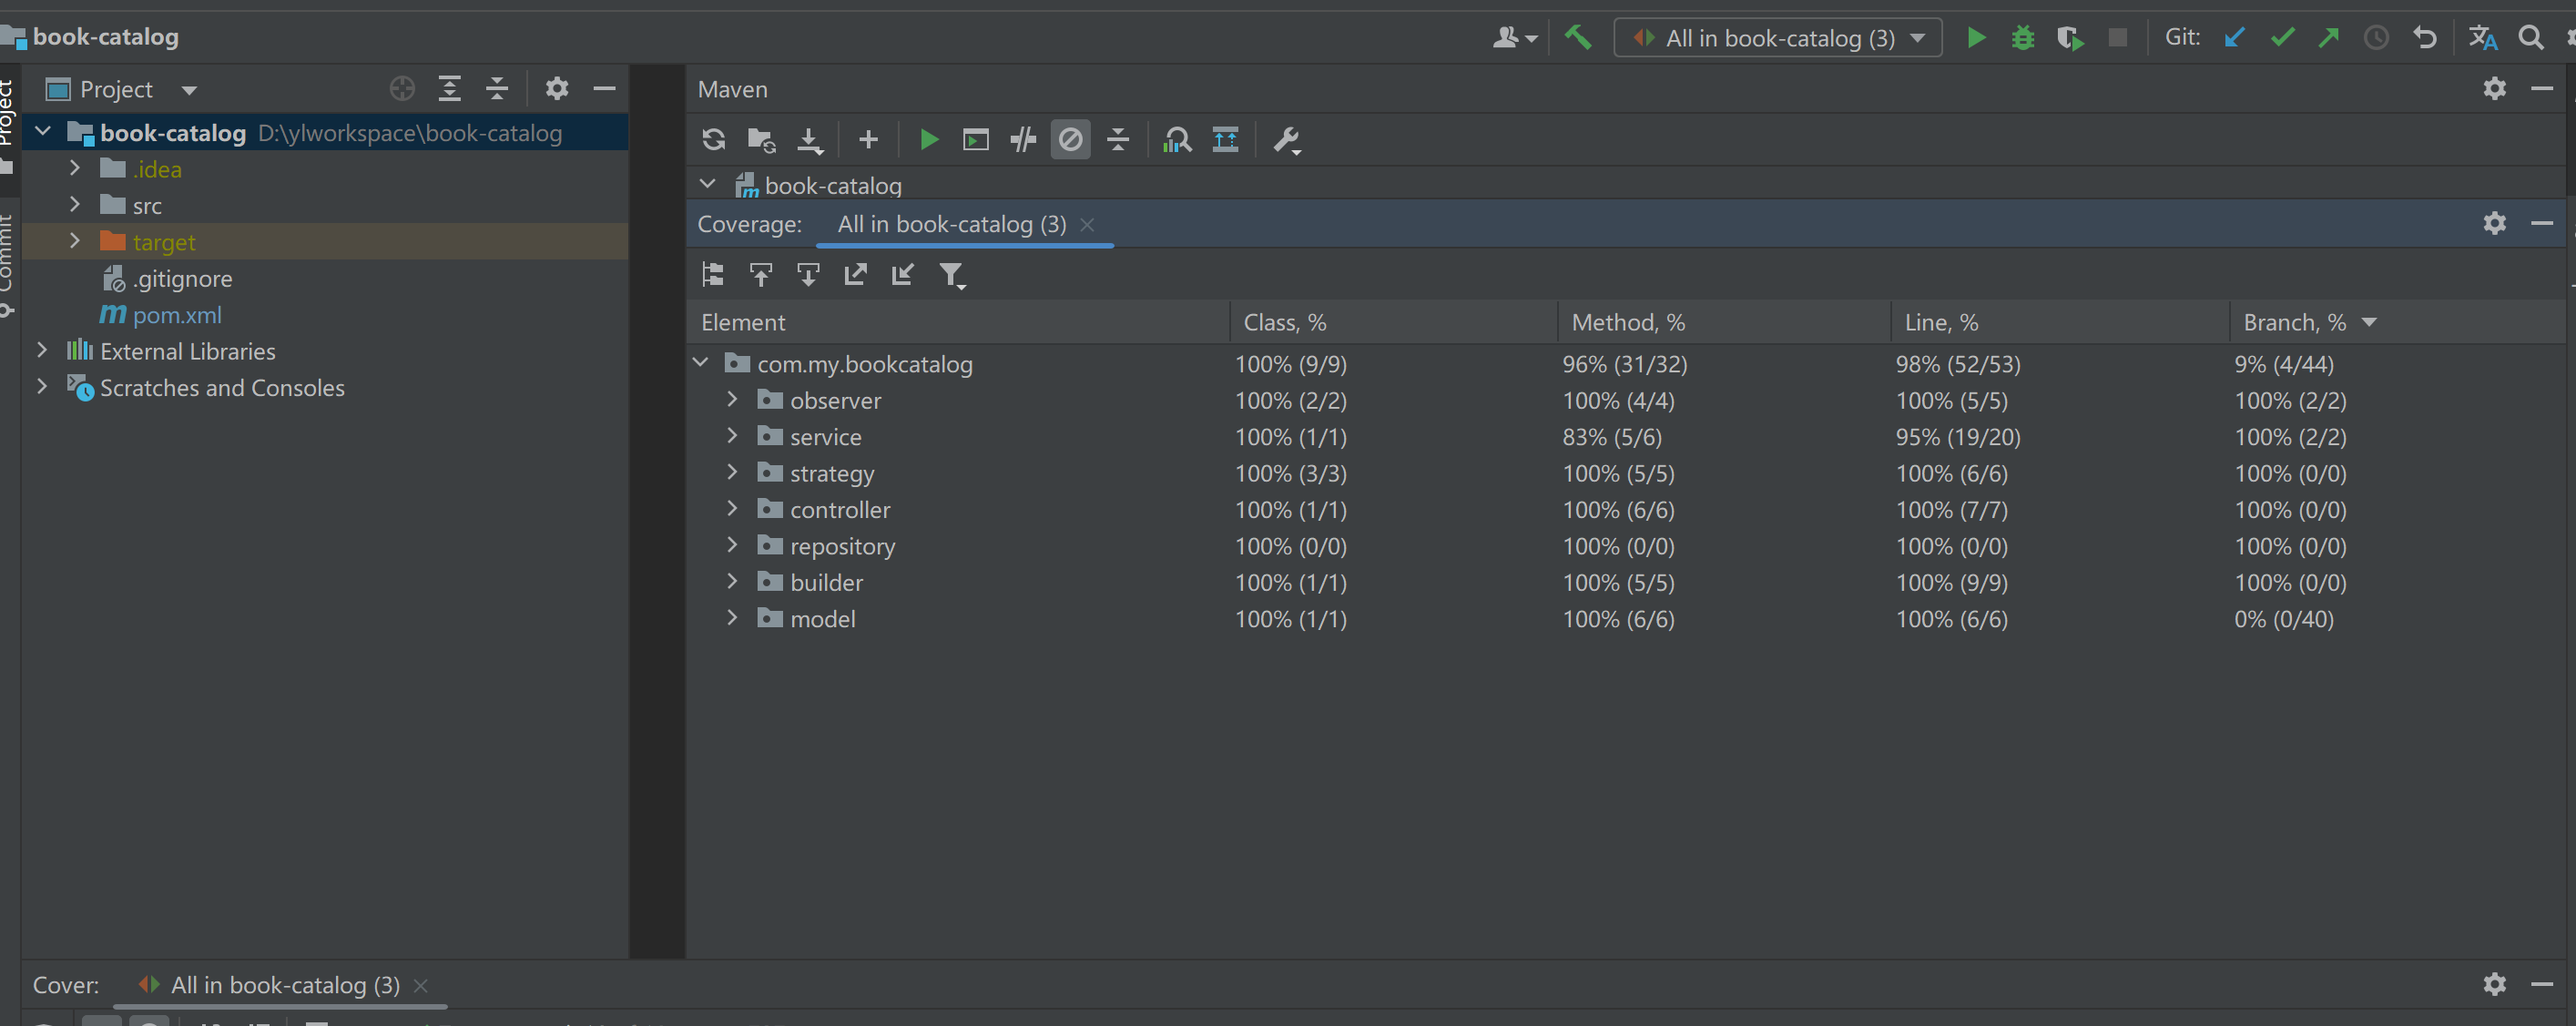
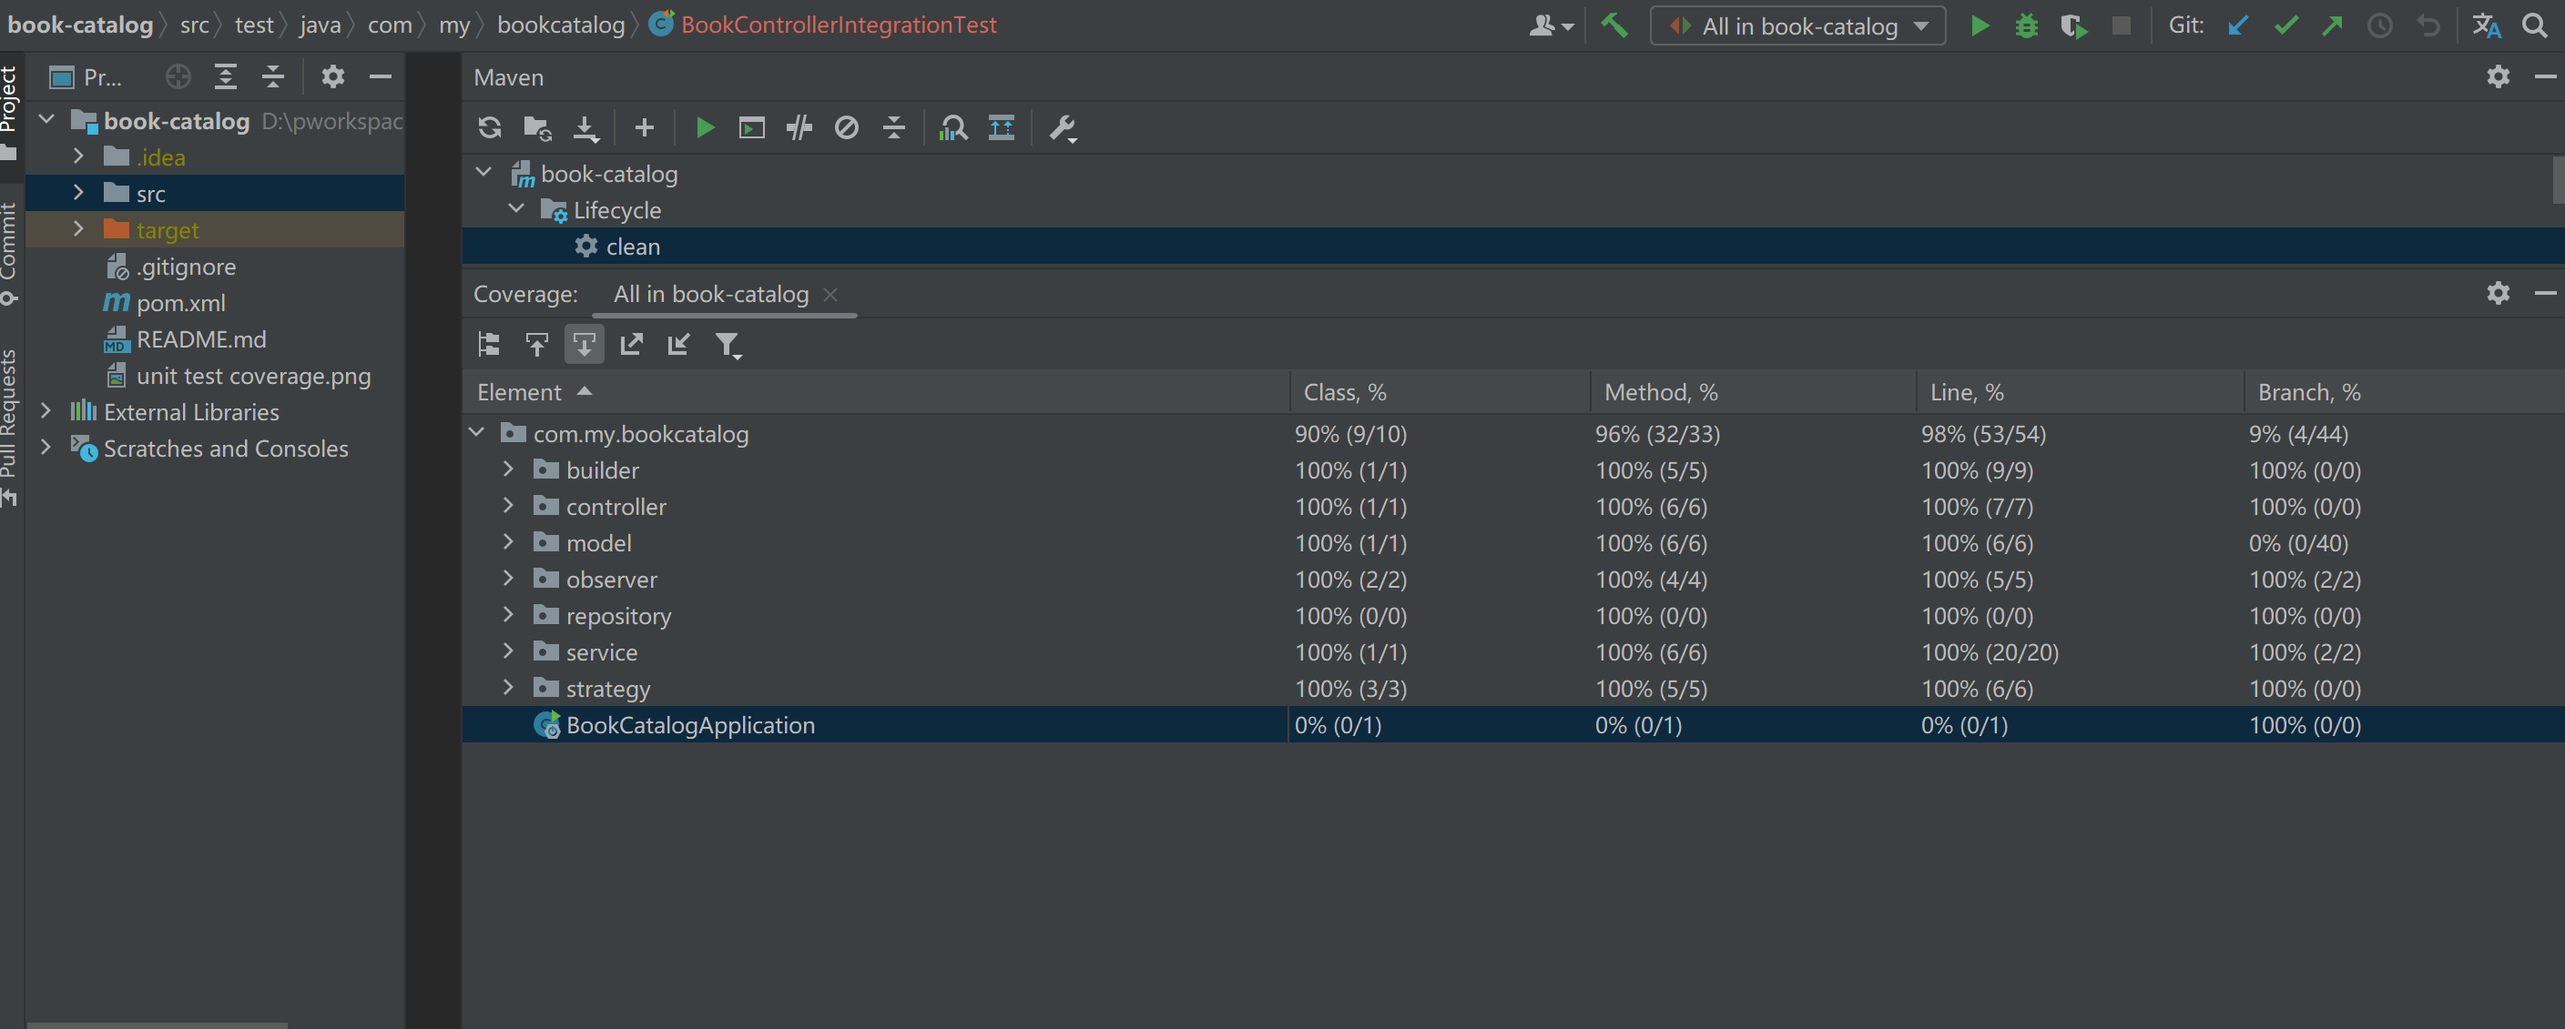
add 集成测试

Changed region(s): [[0.0, 0.0, 1.0, 1.0], [0.5623, 0.0, 0.8747, 0.0621], [0.9059, 0.0, 1.0, 0.0932]]

diff --git a/src/test/java/com/my/bookcatalog/BookControllerIntegrationTest.java b/src/test/java/com/my/bookcatalog/BookControllerIntegrationTest.java
@@ -1,0 +1,85 @@
+package com.my.bookcatalog;
+
+import com.my.bookcatalog.model.Book;
+import org.junit.jupiter.api.Test;
+import org.springframework.beans.factory.annotation.Autowired;
+import org.springframework.boot.test.context.SpringBootTest;
+import org.springframework.boot.test.web.client.TestRestTemplate;
+import org.springframework.http.*;
+
+import static org.junit.jupiter.api.Assertions.assertEquals;
+
+/**
+ * 集成测试
+ */
+@SpringBootTest(webEnvironment = SpringBootTest.WebEnvironment.RANDOM_PORT)
+public class BookControllerIntegrationTest {
+    @Autowired
+    private TestRestTemplate restTemplate;
+
+    @Test
+    void testGetBooks() {
+        ResponseEntity<Book[]> response = restTemplate.getForEntity("/api/books", Book[].class);
+        assertEquals(HttpStatus.OK, response.getStatusCode());
+    }
+
+    @Test
+    void testGetBook() {
+        Book book = createBook();
+        ResponseEntity<Book> response = restTemplate.getForEntity("/api/books/{id}", Book.class,book.getId());
+        assertEquals(HttpStatus.OK, response.getStatusCode());
+    }
+
+    private Book createBook() {
+        Book newBook = new Book();
+        newBook.setTitle("testTitle");
+        newBook.setAuthor("xxxAuther");
+        newBook.setGenre("文学类");
+        newBook.setYearPublished(2025);
+
+        ResponseEntity<Book> response = restTemplate.postForEntity(
+                "/api/books",
+                newBook,
+                Book.class
+        );
+        return response.getBody();
+    }
+
+    @Test
+    void testCreateBooks() {
+        Book book = createBook();
+        assertEquals("testTitle", book.getTitle());
+    }
+
+    @Test
+    void testUpdateBooks() {
+        Book book = createBook();
+        HttpEntity<Book> entity = new HttpEntity<>(book);
+        ResponseEntity<Book> response = restTemplate.exchange(
+                "/api/books/{id}",
+                HttpMethod.PUT,
+                entity,
+                Book.class,
+                book.getId()
+        );
+        assertEquals(HttpStatus.OK, response.getStatusCode());
+        assertEquals("testTitle", response.getBody().getTitle());
+    }
+
+    @Test
+    void testDeleteBooks() {
+        Book book = createBook();
+        // 构造请求
+        HttpHeaders headers = new HttpHeaders();
+        HttpEntity<Void> requestEntity = new HttpEntity<>(headers);
+        // 执行 DELETE 请求
+        ResponseEntity<Void> response = restTemplate.exchange(
+                "/api/books/{id}",
+                HttpMethod.DELETE,
+                requestEntity,
+                Void.class,
+                book.getId()
+        );
+        assertEquals(HttpStatus.OK, response.getStatusCode());
+    }
+}
